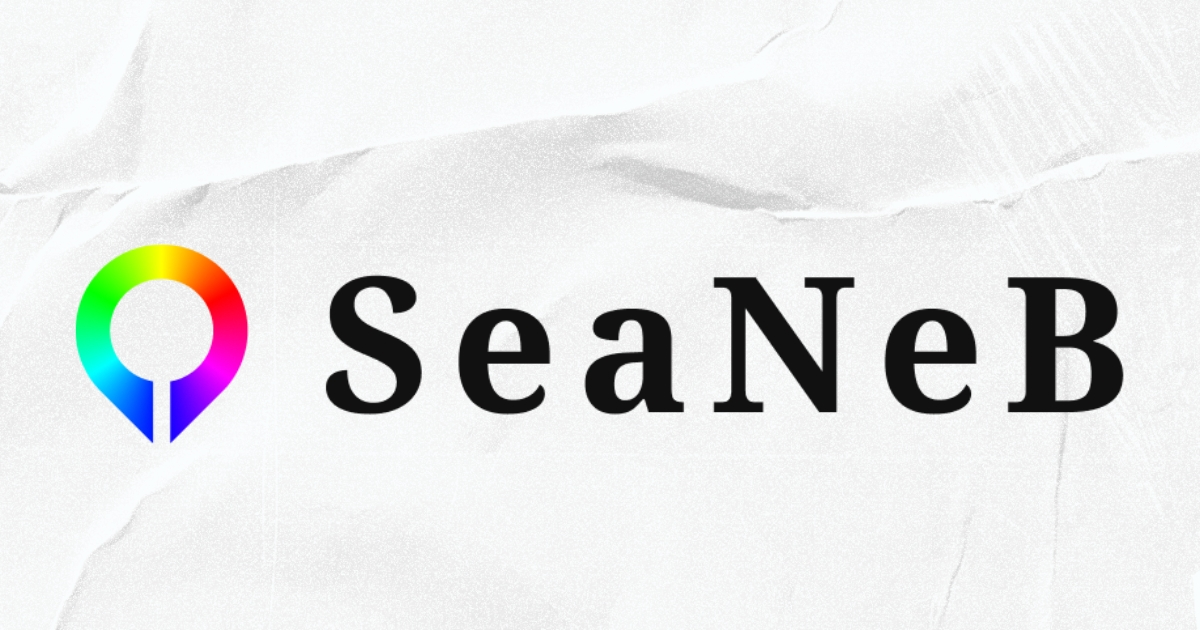
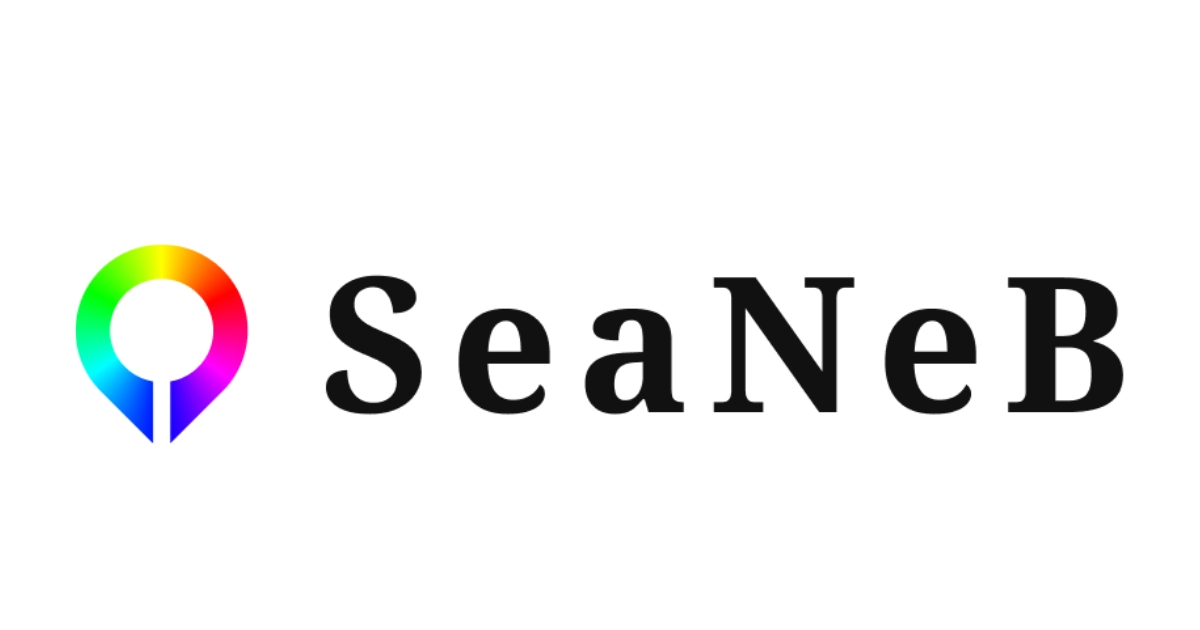
Updated OG Image for SEO

diff --git a/src/app/layout.tsx b/src/app/layout.tsx
@@ -63,7 +63,7 @@ export const metadata: Metadata = {
     title: 'SeaNeb | Discover Local Business Deals & B2B Offers',
     description:
       'Find nearby MSME businesses, local services, and verified vendors with SeaNeB.',
-    images: ['/images/og/opengraph-image.png']
+    images: ['/images/og/og.jpg']
   }
 }
 
